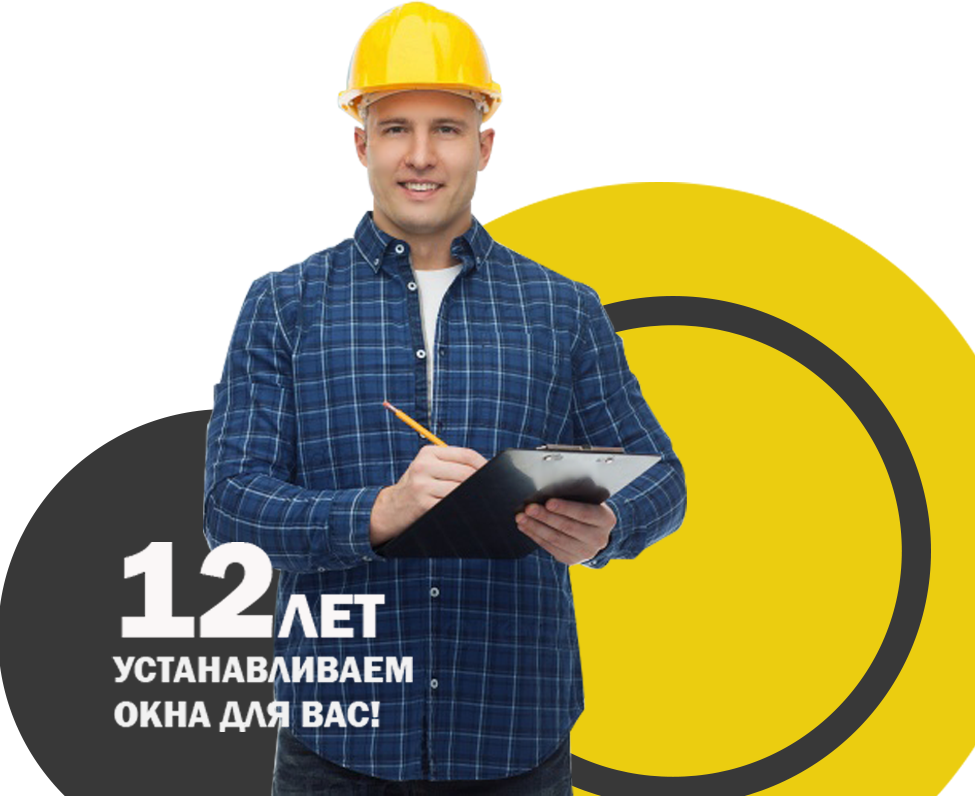
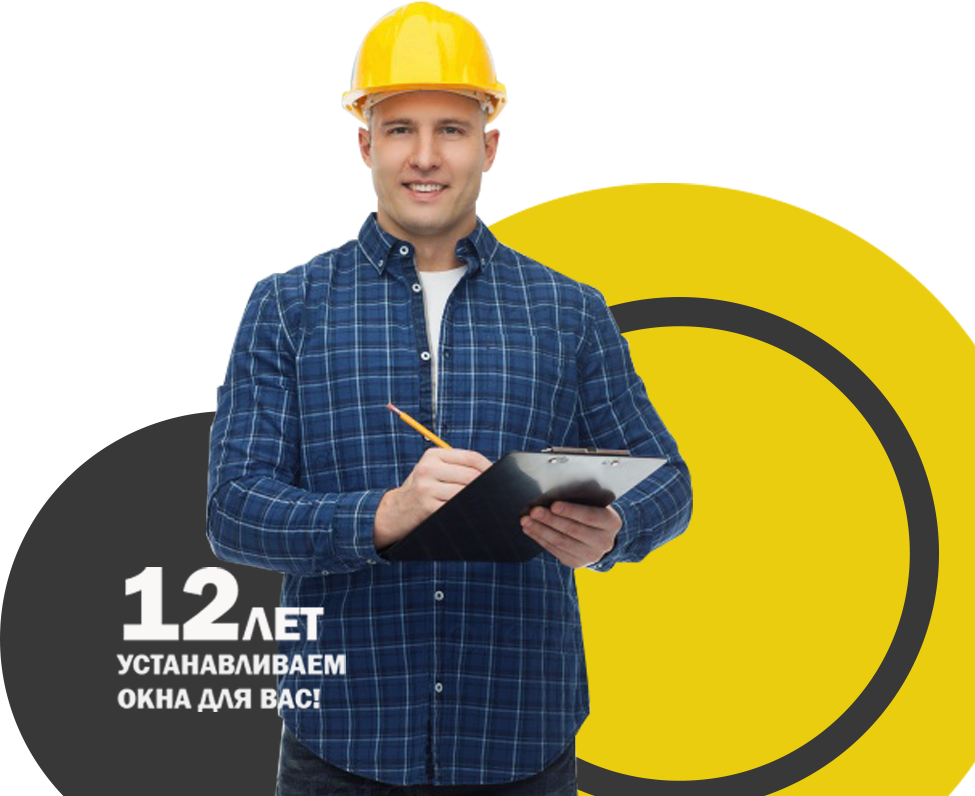
new

diff --git a/7question.html b/7question.html
@@ -45,7 +45,7 @@
                     <!-- Описание -->
                     <div class="offset-xl-3 offset-lg-4 offset-md-0 col-xl-9 col-lg-8 col-md-12  text-left">
                         <h1 class="contact__number wow fadeInRight " data-wow-delay="0.9s"><b class="color_new_style">ОТЛИЧНО!</b> ВЫ ОТВЕТИЛИ НА ВСЕ ВОПРОСЫ</h1>
-                        <p>РАССЧЕТ СТОИМОСТИ ЗАЙМЕТ <span class="new_bg">НЕ БОЛЕЕ 15 МИНУТ</span></p>
+                        <p>РАССЧЕТ СТОИМОСТИ ЗАЙМЕТ  <span class="new_bg">НЕ БОЛЕЕ 15 МИНУТ</span></p>
                     </div>
                     <div class="offset-xl-2 offset-lg-4 offset-md-0 col-xl-9 col-lg-8 col-md-12 text-left">
                         <span class="descrip_quesy_7">Мы подготовим для Вас точный рассчет, отталкиваясь от Ваших критерий. Но а так-же, мы предлагаем Вам рассчитать и другие варианты по остеклению. Просто укажите  свой бюджет, а мы просчитаем для вас еще пару вариантов и озвучим их...</span>
@@ -66,8 +66,8 @@
                             <div class="row">
                                 <div class="col-xl-5 col-lg-5 offset-xl-0 offset-lg-5  new_callback">
                                     <input type="text" placeholder="Введите Ваше Имя" class="first_icon" />
-                                    <input type="number" placeholder="Введте Номер Телефона" class="second_icon" />
-                                    <input type="number" placeholder="Удобное время звонка" class="three_icon" />
+                                    <input type="number" placeholder="Введте Номер Телефона" class="three_icon" />
+                                    <input type="time" placeholder="Удобное время звонка" class="second_icon" />
                                 </div>
                                 <div class="col-xl-6">
                                     <a href="#" data-toggle="modal" data-target="#exampleModal" id="popup__toggle" onclick="return false;">

diff --git a/5question.html b/5question.html
@@ -160,16 +160,16 @@
                         <div class="border_5question">
                             <img src="img/icon_5question_6.png">
                             <ul>
-                                <li class="wow fadeInUp"> <input type="radio" id="w1" name="wr" onclick="return location.href = '6question.html'"/>
+                                <li class="wow fadeInUp"> <input type="radio" id="w1" name="wr" />
                                     <label for="w1"><span></span>1 шт. </label> <br/>
                                 </li>
-                                <li class="wow fadeInUp"> <input type="radio" id="w2" name="wr" onclick="return location.href = '6question.html'"/>
+                                <li class="wow fadeInUp"> <input type="radio" id="w2" name="wr" />
                                     <label for="w2"><span></span>2 шт. </label> <br/>
                                 </li>
-                                <li class="wow fadeInUp"> <input type="radio" id="w3" name="wr" onclick="return location.href = '6question.html'"/>
+                                <li class="wow fadeInUp"> <input type="radio" id="w3" name="wr" />
                                     <label for="w3"><span></span>3 шт. </label> <br/>
                                 </li>
-                                <li class="wow fadeInUp"> <input type="radio" id="w4" name="wr" onclick="return location.href = '6question.html'"/>
+                                <li class="wow fadeInUp"> <input type="radio" id="w4" name="wr" />
                                     <label for="w4"><span></span>4 шт. </label> <br/>
                                 </li>
                             </ul>

diff --git a/css/custom.css b/css/custom.css
@@ -195,13 +195,13 @@ body {
     width: 100%;
     height: 100vh;
     background-image: url('../img/bg_home.jpg');
-    background-position: -100px;
+    background-position-x: -100px;
     background-size: cover;
 }
 
 .new_bg_right {
     width: 100%;
-    margin-top: 35px;
+    margin-top: 8px;
     display: block;
     position: relative;
 }
@@ -291,7 +291,7 @@ body {
     background: url(../img/home_icon_bg.png);
     margin-top: 80px;
     background-repeat: no-repeat;
-    padding: 30px;
+    padding: 30px 30px 0 30px;
 }
 
 .contact__callback__icon a {
@@ -318,7 +318,7 @@ body {
 .back_button {
     position: absolute;
     margin-top: 135px;
-    margin-left: 20px;
+    left: 6%;
 }
 
 .back_button a:hover img {
@@ -330,7 +330,7 @@ body {
     position: absolute;
     right: 0;
     margin-top: 135px;
-    margin-right: -25px;
+    margin-right: 2%;
 }
 
 .next_button a {
@@ -596,6 +596,8 @@ input[type="radio"]:checked+label span {
 }
 
 .new_bg {
+    padding: 0px 5px;
+    font-weight: 900;
     background: #ebcd10;
 }
 
@@ -1106,6 +1108,8 @@ input.three_icon {
     justify-content: center;
     text-align: center;
     font-size: 12px;
+    text-transform: uppercase;
+    line-height: 1.4;
 }
 
 .img-circle:hover {
